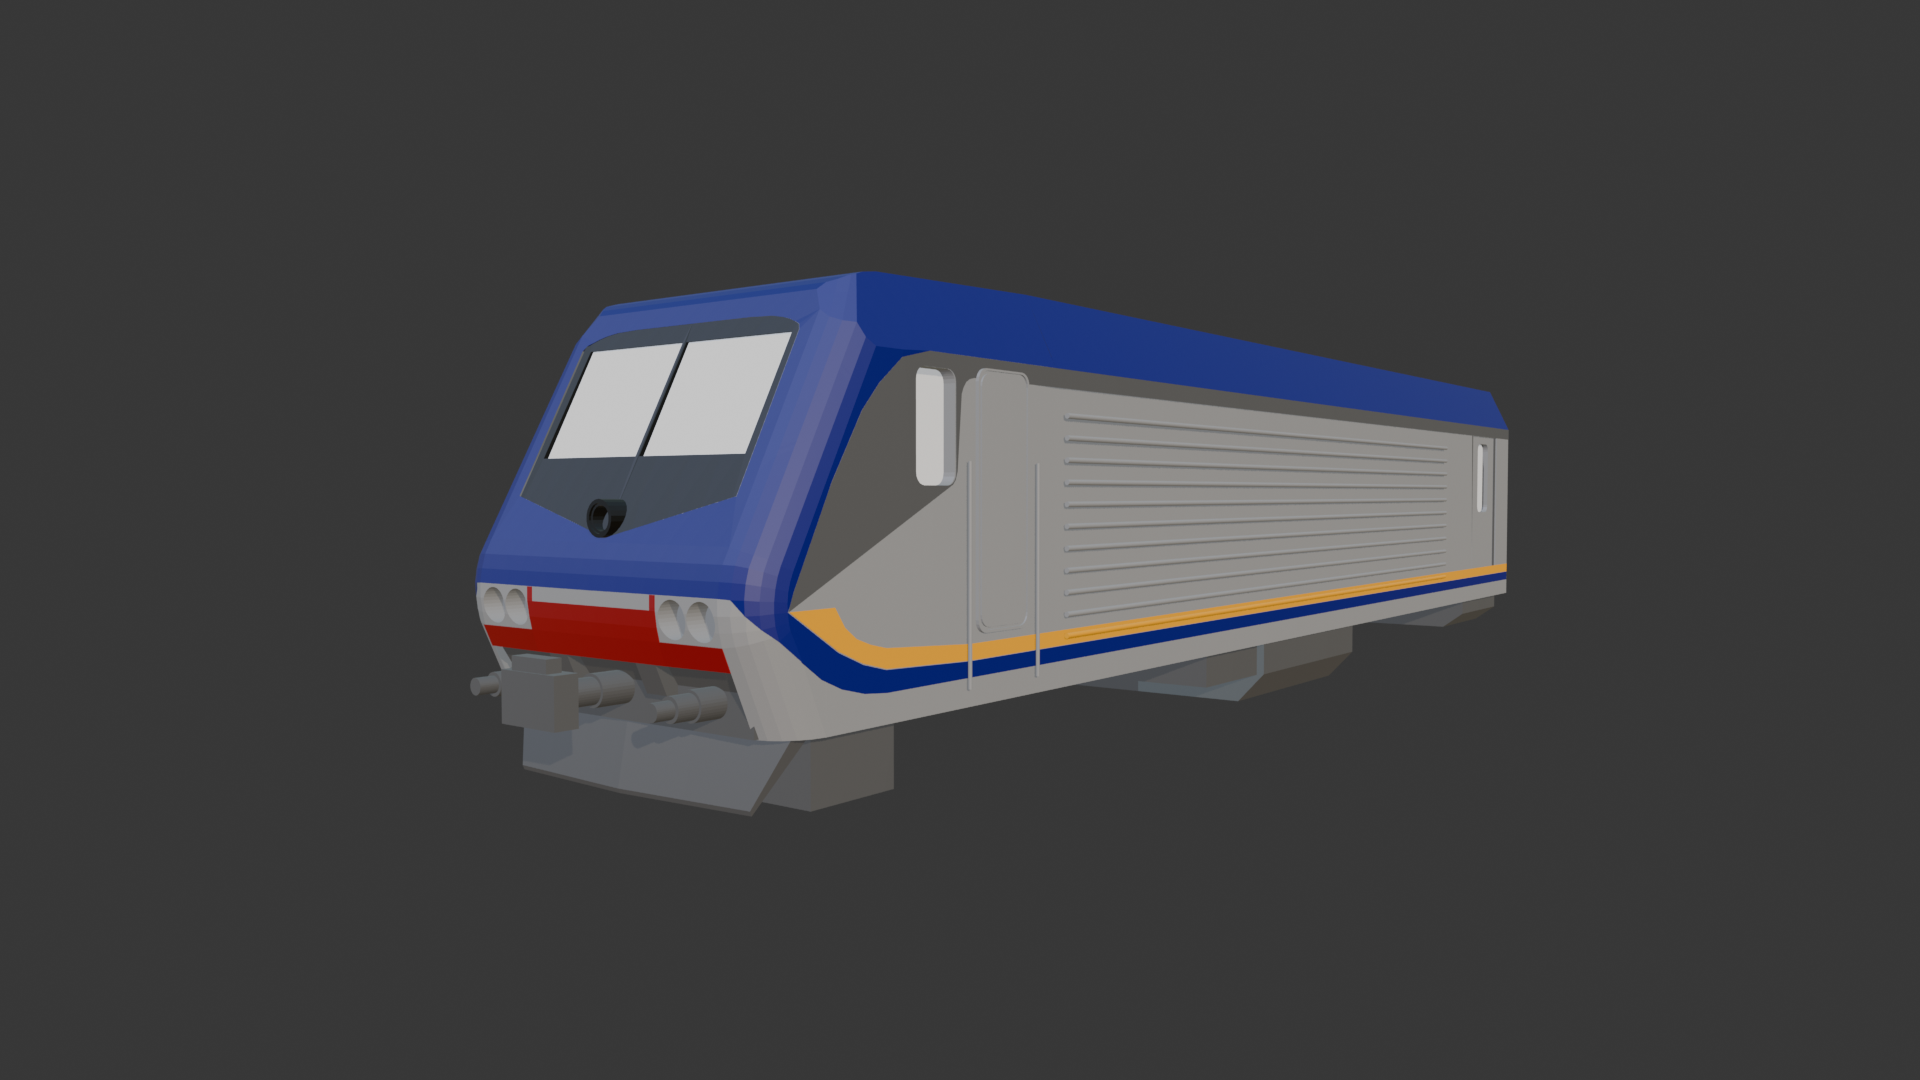
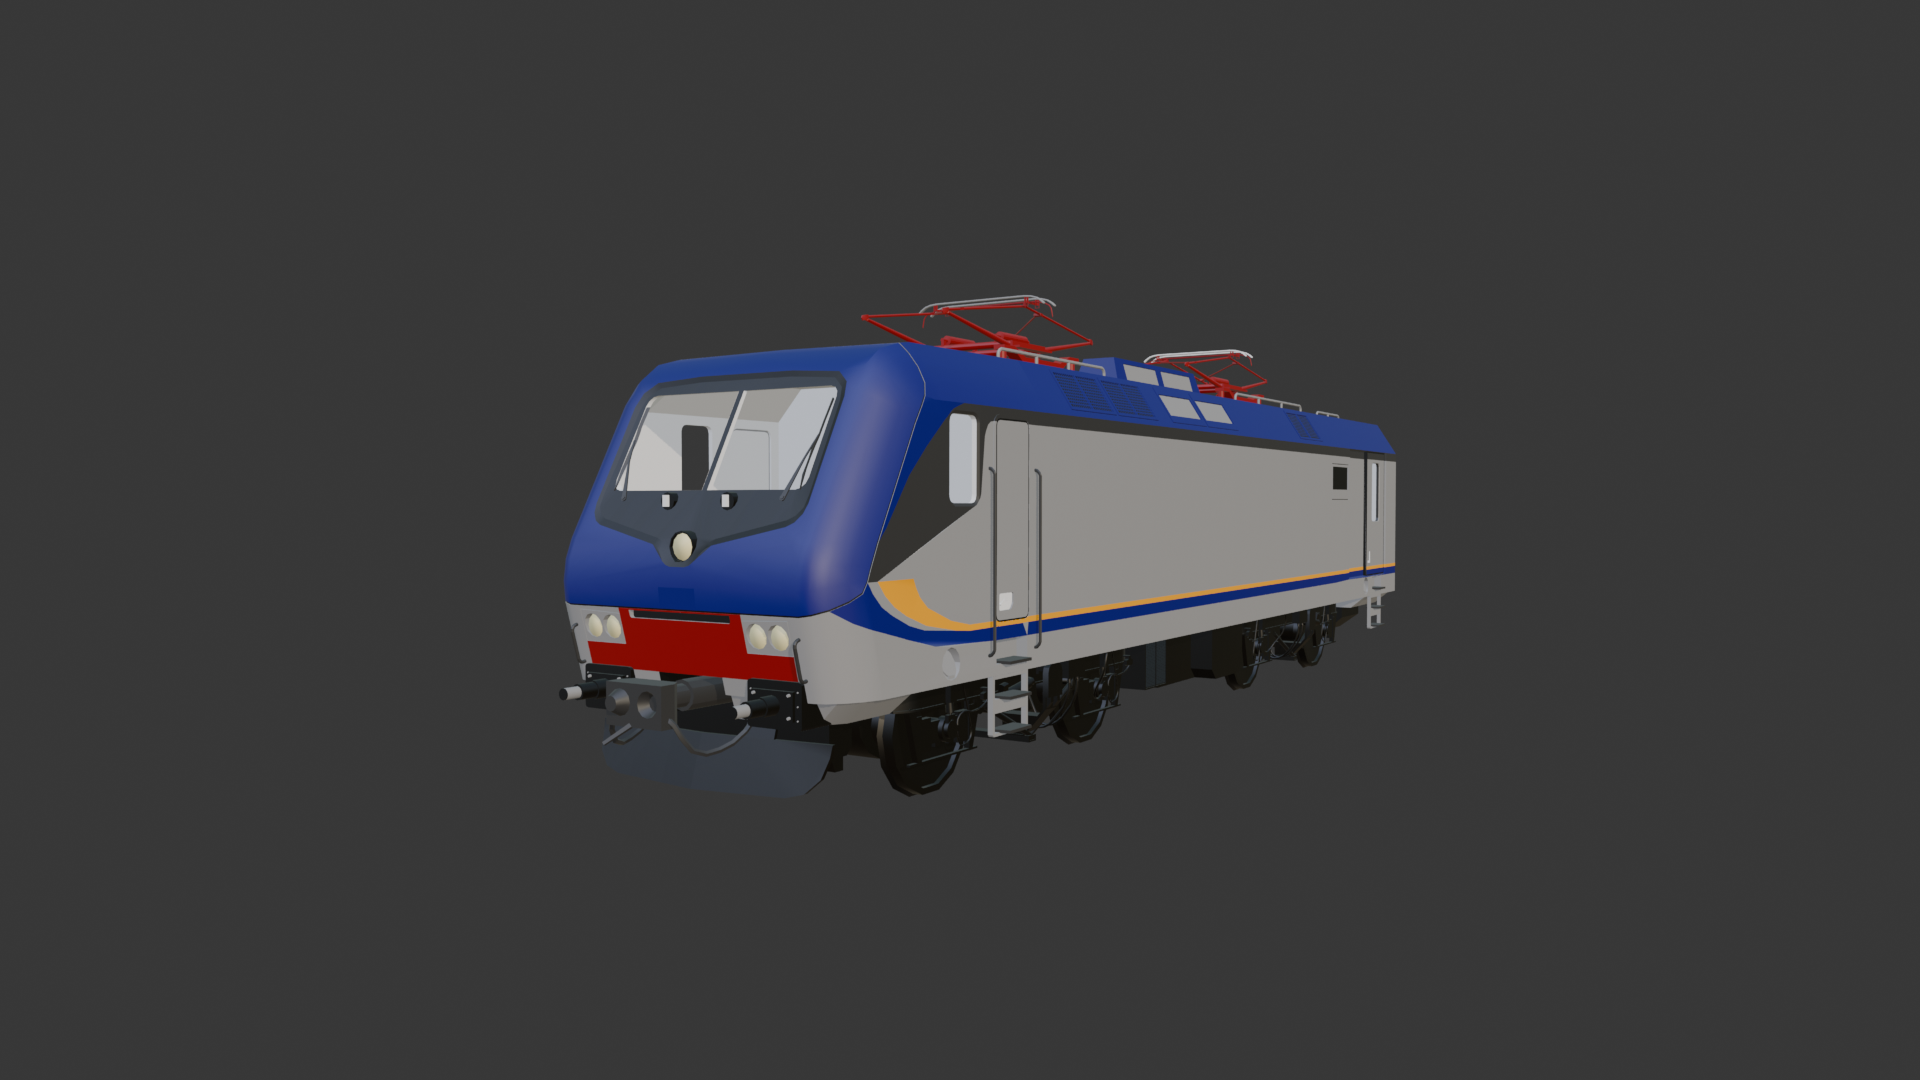
c

Changed region(s): [[0.25, 0.2444, 0.8125, 0.7639]]

diff --git a/index.html b/index.html
@@ -142,7 +142,7 @@
         data-title="Treni Trenitalia"
         data-desc="Modellazione e texturing di treni per simulatori."
         data-tools="Blender, Substance"
-        data-images="assets/Screenshot 2025-10-12 204343.png|assets/Screenshot 2025-10-12 204155.png|assets/Screenshot 2025-10-12 204346.png"
+        data-images="assets/Screenshot 2025-10-12 204343.png|assets/Screenshot 2025-10-12 204155.png|assets/regfront.png|assets/regback.png|assets/regside.png|assets/regunder.png|assets/Screenshot 2025-10-12 204346.png"
         data-src="assets/Screenshot 2025-10-12 204343.png">
         <div class="case-bg" style="--bg:url('assets/Screenshot 2025-10-12 204343.png')"></div>
         <div class="case-info">